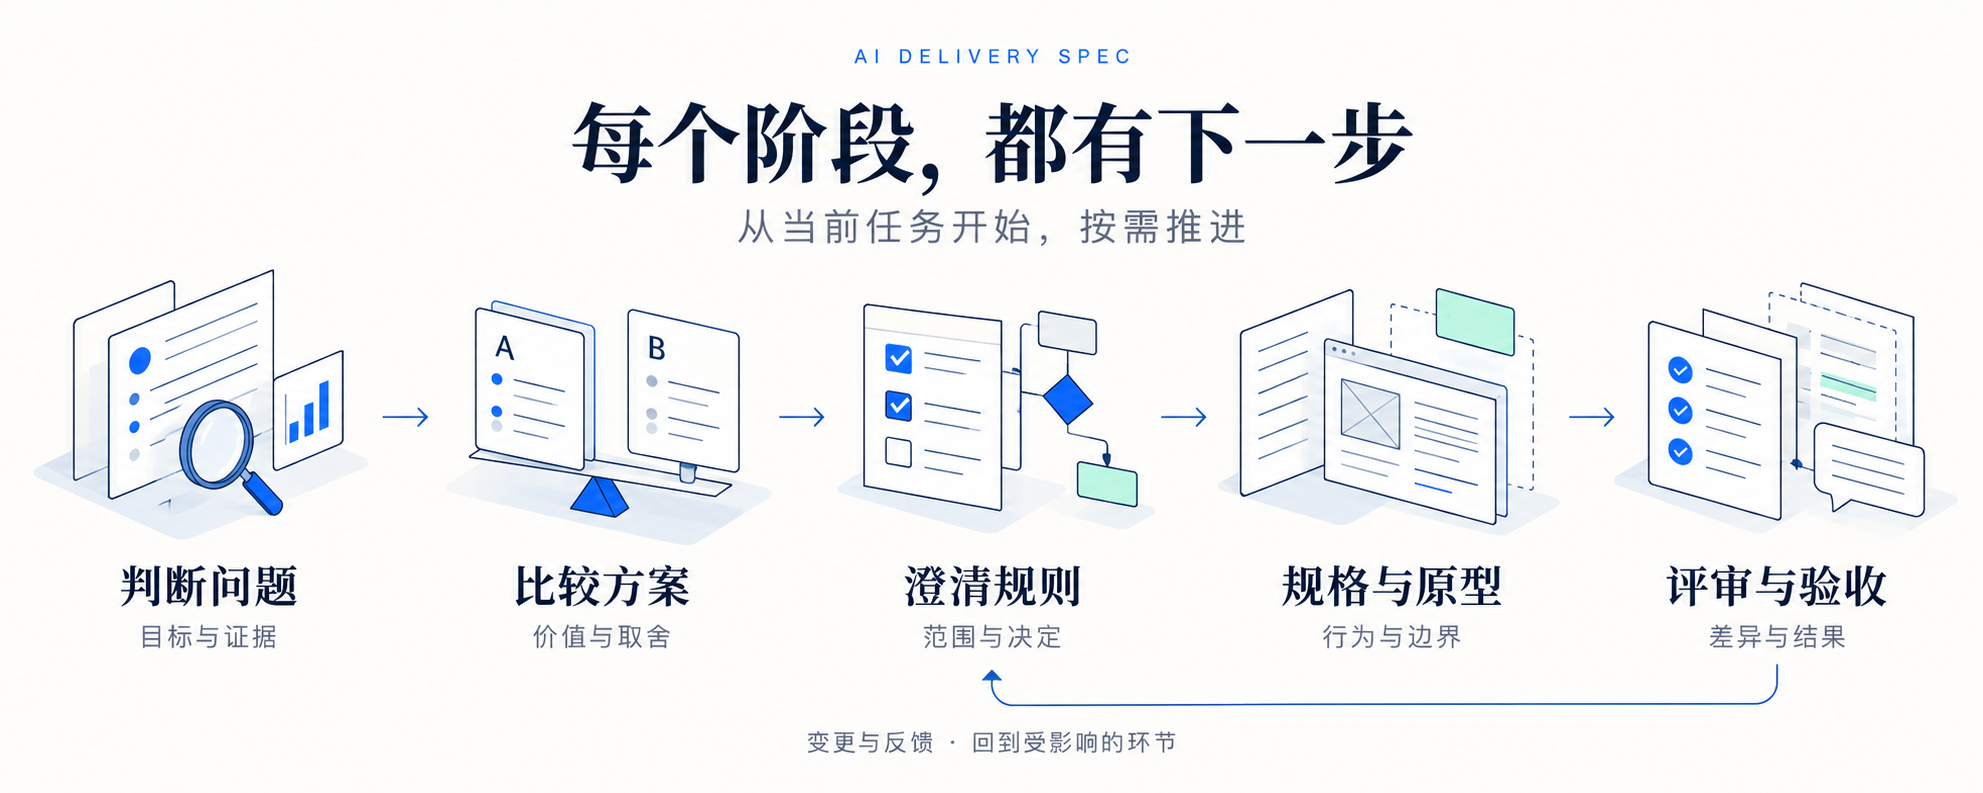
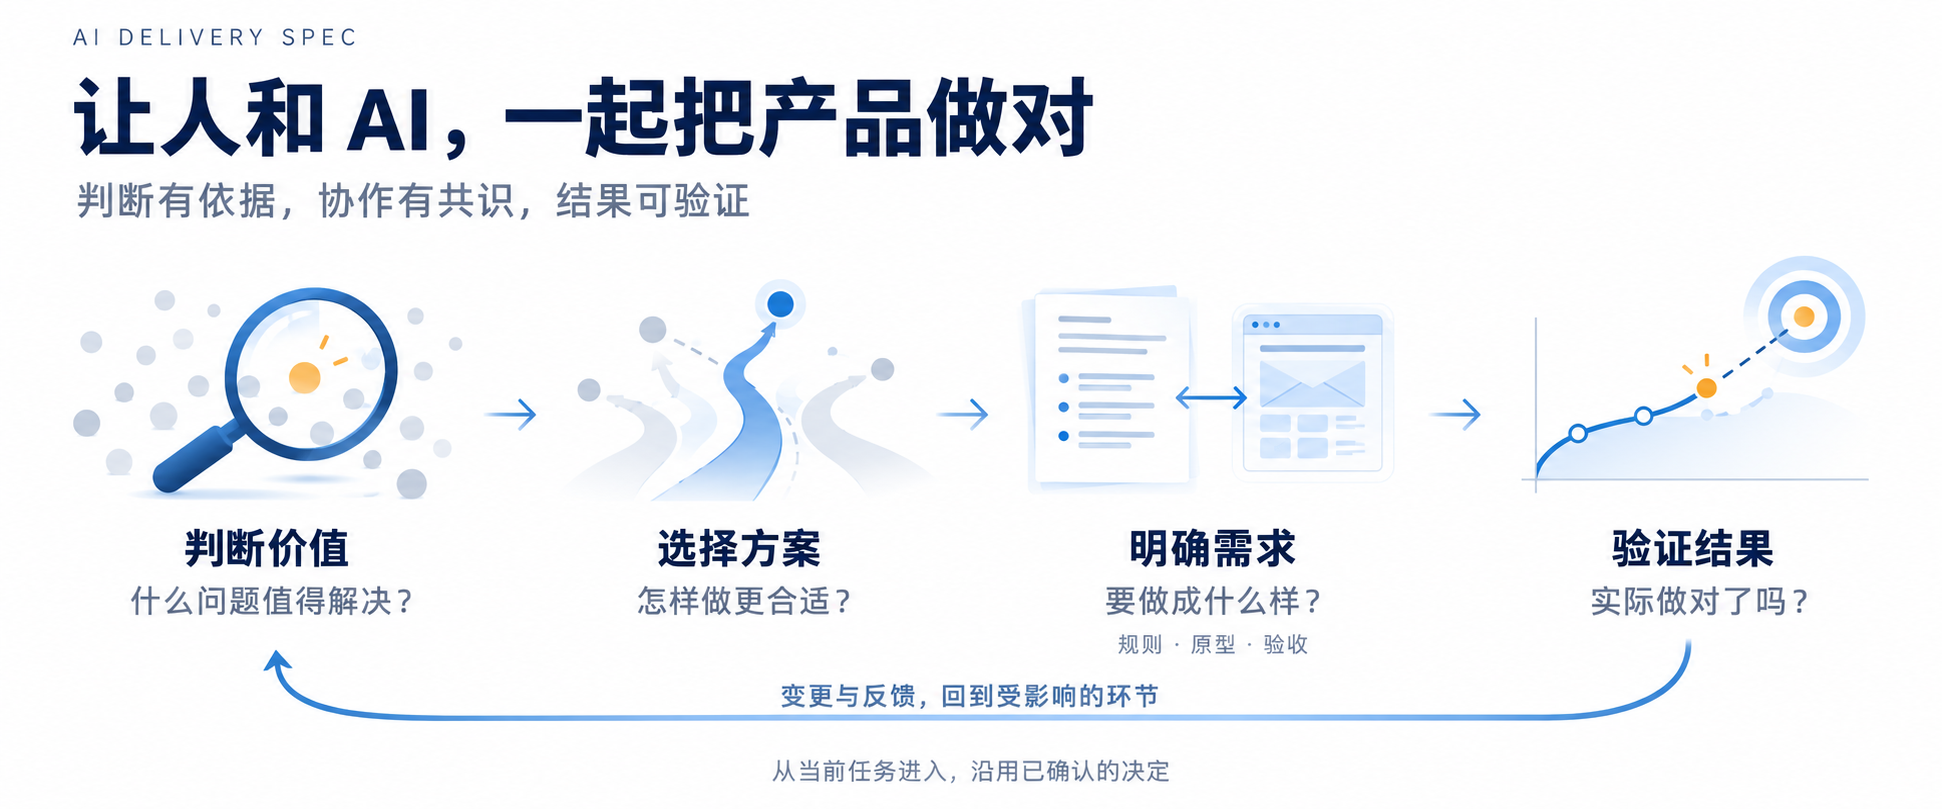
Express README value as a human-AI product decision loop

diff --git a/README.md b/README.md
@@ -6,7 +6,7 @@
 
 只有一句想法，不知道该问什么；PRD 写了几十页，开发仍在猜；需求改了一轮，文档、原型和 AI 实现又各说各话。
 
-**给你的 AI 一套产品工作方法：判断值不值得做，探索怎么做，把需求讲清楚，再跟进评审、变更与验收。** 从你当前的任务开始，面向产品、业务、设计、研发与测试，也为 Coding Agent 提供明确的业务依据。
+**让人和 AI，一起把产品做对。** AI Delivery Spec 帮助团队先判断什么值得做，再讲清要做成什么样，用实际结果检验原来的判断。面向产品、业务、设计、研发与测试，也为 Coding Agent 提供共同的需求依据。
 
 [![ClawHub: 3,139 downloads](https://img.shields.io/badge/ClawHub-3%2C139_downloads-2563eb)](https://clawhub.ai/franklinxkk/skills/ai-delivery-spec)
 [![SkillHub: 4.6/5 for v5.5.5](https://img.shields.io/badge/SkillHub-4.6%2F5_%C2%B7_v5.5.5-15803d)](https://skillhub.cn/skills/user_12c92261/ai-delivery-spec)
@@ -54,31 +54,31 @@ npx skills add franklinxkk/ai-delivery-spec
 
 <a id="capabilities"></a>
 
-## 从想清楚，到交得出去
+## 让目标、需求与实际结果保持一致
 
-![AI Delivery Spec 能力示意：判断问题、比较方案、澄清规则、规格与原型、评审与验收；变更回到受影响的环节](examples/requirements-workflow.png)
+![AI Delivery Spec 产品决策循环：判断价值、选择方案、明确需求、验证结果；变更与反馈回到受影响的环节](examples/requirements-workflow.png)
 
-**任一阶段都能进入，小改不用走完整套流程。** 产品探索、已有系统和持续迭代都适用，覆盖 ToC、ToB/ToG 与 AI 原生产品。
+**判断有依据，协作有共识，结果可验证。** 人掌握目标、约束和关键决定；Skill 引导 AI 分析、澄清、表达和核验，让这些决定贯穿需求、原型及后续变更。
 
-### 先找到该解决的问题
+### 判断价值：什么问题值得解决？
 
-“加个按钮”“做个自动审批”往往只是候选解法。Skill 引导 AI 核对用户、场景、价值与证据，比较可行方案；需要时建议先验证、缩小范围或暂缓。已经确定的决定继续沿用，尚未确定的业务选择留给有权的人。
+“加个按钮”“做个自动审批”往往只是候选解法。先理解谁在什么场景遇到了什么问题，核对事实与影响；需要时建议先验证、缩小范围或暂缓。
 
-### 一个模块，读完就知道怎么做、怎么验
+### 选择方案：怎样做更合适？
 
-整体先交代目标、范围和模块关系；字段、计算、权限、动作、状态、异常与验收写回各自模块。开发不用拼读多张横向表，测试能据此准备有明确预期的数据。
+结合现有系统和约束比较方案，讲清收益、代价与取舍。已经确认的决定继续沿用，真正影响方案的未知才继续澄清；不会把示例或模型的默认选择当成业务决定。
 
-例如，“提交成功”要写清成功凭据；失败保留哪些输入；结果未知如何确认原请求。产品、研发、测试与 Coding Agent 共享这些约定。
+### 明确需求：要做成什么样？
 
-### 原型把关键行为演出来
+把决定写成人和 AI 都能据此工作的需求：字段、计算、权限、动作、状态、异常和验收集中在各自模块。沿用团队模板和设计规范，用可操作原型呈现关键行为，按需在页面或弹窗旁查看评审说明。[了解评审方式](references/review-workspace.md)
 
-从入口、填写、提交到结果和再次打开，检查配置是否真正生效，拒绝与恢复能否走通。沿用团队的组件与交互规范。
+例如，“提交成功”要有明确凭据；失败保留哪些输入；结果未知如何确认原请求。产品、研发、测试与 Coding Agent 共享这些约定。
 
-需要评审时，在当前页面或弹窗旁查看说明，流程图和大表格点击放大；产品界面保持可操作。评审态按需开启。[了解评审方式](references/review-workspace.md)
+### 验证结果：实际做对了吗？
 
-### 需求变了，相关产物一起跟上
+从原始目标和已确认规则建立预期，实际核对关键操作、拒绝与恢复路径；文档、原型彼此一致，还要检查它们是否一起理解错了。收到变更或验证反馈，回到受影响的决定与模块，同步修订、复验。
 
-先读当前基线，再找受影响的页面、角色、状态和数据，回到原位置修订。验证从原始约定建立预期，避免文档和原型一起写错；每项结论说明实际查到了哪一层。
+**从当前任务进入，不必走完整套流程。** 一句话想法、既定需求、存量系统与持续迭代都适用；小改保持轻量，已确认的信息持续复用。
 
 <a id="roles"></a>
 
@@ -125,7 +125,7 @@ npx skills add franklinxkk/ai-delivery-spec
 
 **AI writes code faster. Gaps in requirements become code faster, too.**
 
-AI Delivery Spec gives your agent a product workflow: understand the problem, compare solutions, clarify decisions, specify behavior, and follow through review, change and acceptance. Start with an idea, existing artifacts or a change request. Small changes stay small; approved decisions carry forward.
+**Help people and AI build the right product together.** AI Delivery Spec connects product decisions with requirements and verification: assess what is worth solving, compare approaches, define the expected behavior, and check actual results against the original intent. People retain the goals, constraints and key decisions. Start with an idea, existing artifacts or a change request; revisit affected decisions when feedback arrives. Small changes stay small, and approved decisions carry forward.
 
 Install with `npx skills add franklinxkk/ai-delivery-spec`, then try:
 
